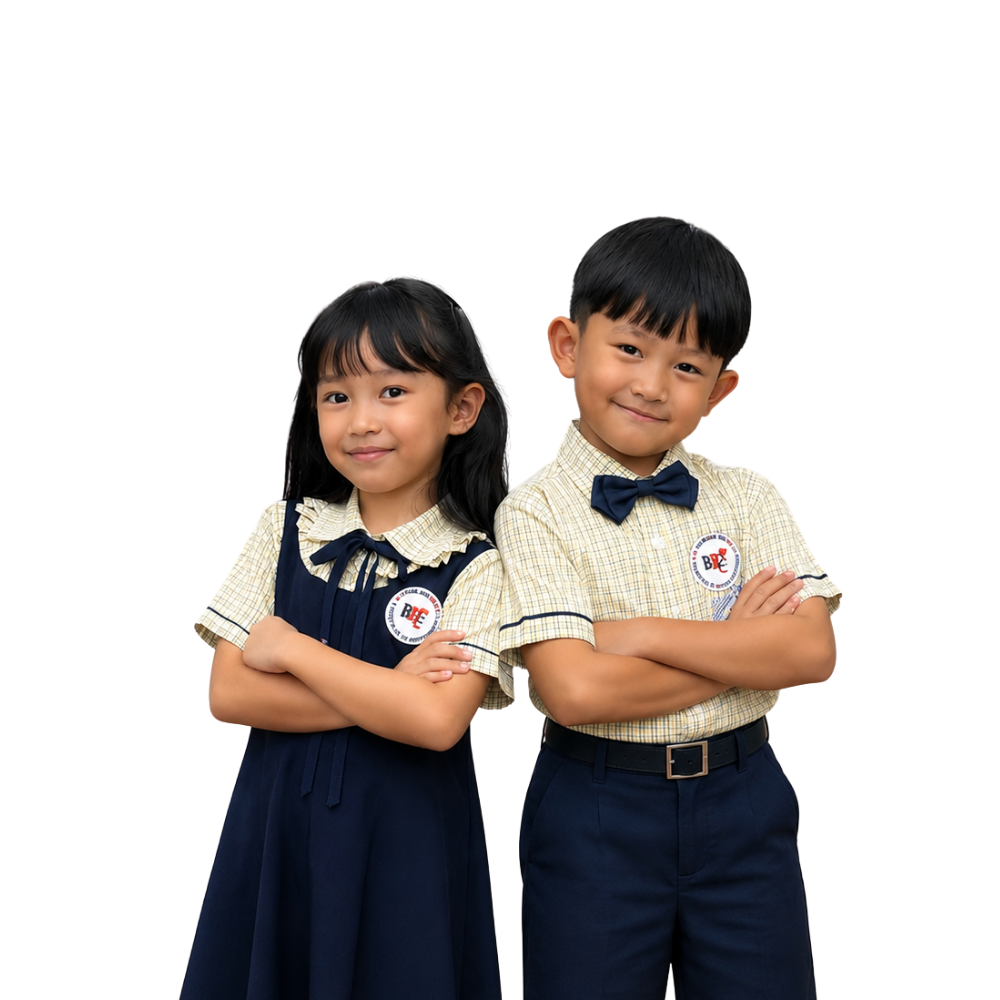
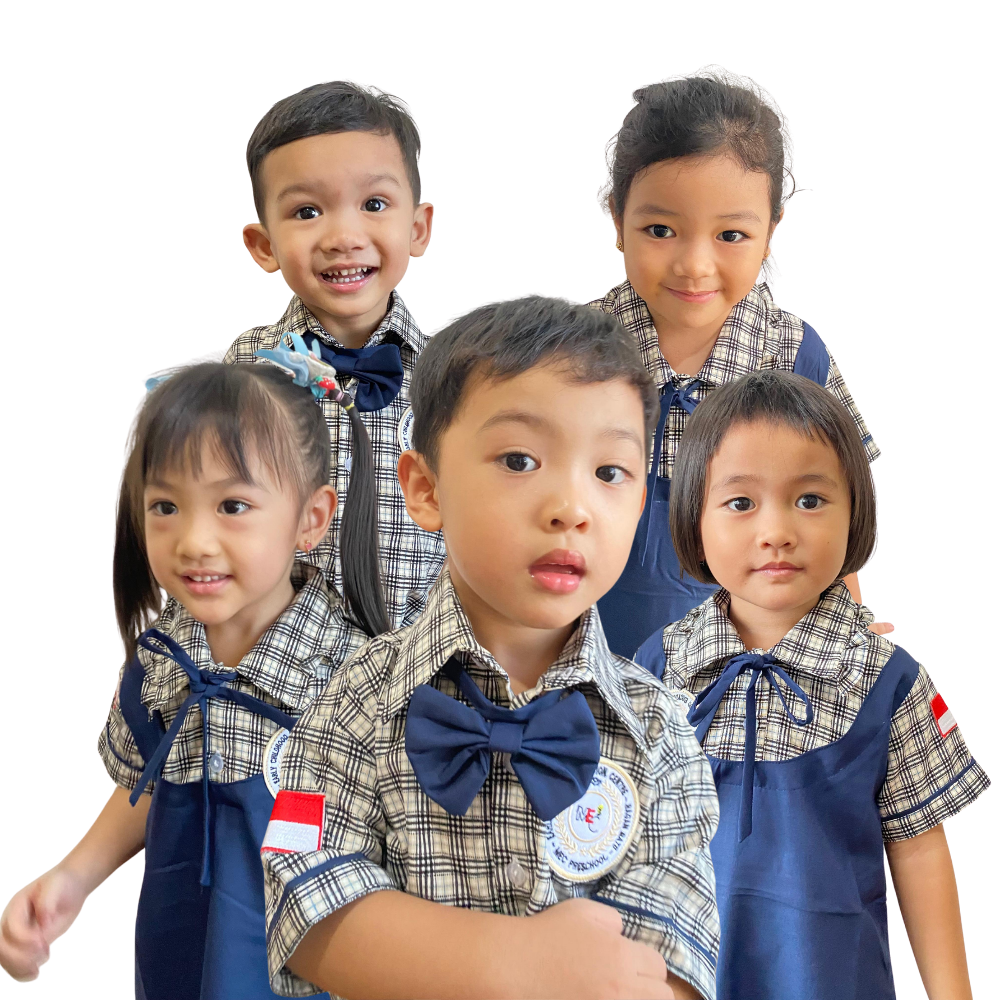
update preschoolanding page

diff --git a/src/components/preschool-landing/Gallery.tsx b/src/components/preschool-landing/Gallery.tsx
@@ -5,35 +5,35 @@ import { Star4, DotsGrid, Cloud } from "./Doodles";
 
 const photos = [
   {
-    src: "/images/placeholder-10.png",
+    src: "/images/preschool10.png",
     alt: "Two children reading a storybook together at MEC Preschool",
     frame: "bg-accent",
     rotate: "-rotate-3",
     span: "",
   },
   {
-    src: "/images/placeholder-11.png",
+    src: "/images/preschool6.jpeg",
     alt: "Student birthday celebration in MEC Preschool class",
     frame: "bg-primary",
     rotate: "rotate-2",
     span: "",
   },
   {
-    src: "/images/placeholder-12.png",
+    src: "/images/preschool9.jpeg",
     alt: "MEC student drawing with colored pencils in art class",
     frame: "bg-background",
     rotate: "",
     span: "sm:col-span-2 sm:row-span-2",
   },
   {
-    src: "/images/placeholder-16.png",
+    src: "/images/preschool7.jpeg",
     alt: "MEC Preschool children taking a group photo while hugging",
     frame: "bg-primary",
     rotate: "rotate-3",
     span: "",
   },
   {
-    src: "/images/1.jpeg",
+    src: "/images/preschool8.jpeg",
     alt: "MEC students playing superhero dress-up on costume day",
     frame: "bg-accent",
     rotate: "-rotate-2",
@@ -70,7 +70,7 @@ export function Gallery() {
               viewport={{ once: true, margin: "-60px" }}
               transition={{ duration: 0.5, delay: i * 0.1 }}
               whileHover={{ scale: 1.04, rotate: 0 }}
-              className={`${p.span} ${p.rotate} ${p.frame} rounded-2xl p-2 shadow-lg`}
+              className={`${p.span} ${p.rotate} ${p.frame} aspect-square rounded-2xl p-2 shadow-lg`}
             >
               <img
                 src={p.src}
